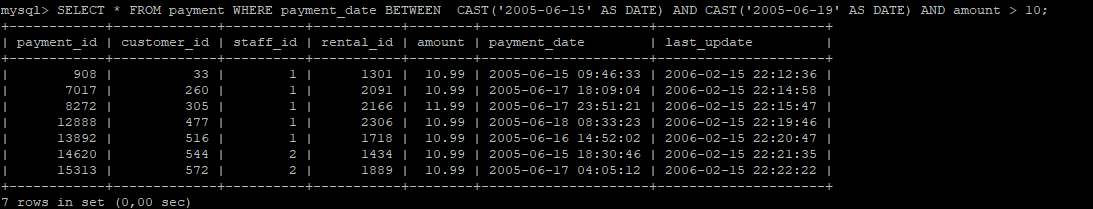
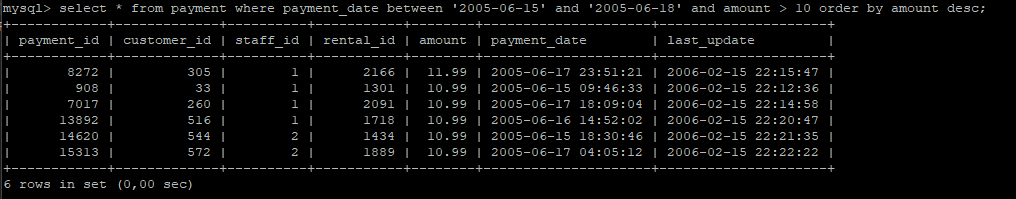
res

diff --git a/12.03-hw/README.md b/12.03-hw/README.md
@@ -22,7 +22,7 @@ select distinct district from address where district like 'K%a' and district not
 
 Получите из таблицы платежей за прокат фильмов информацию по платежам, которые выполнялись в промежуток с 15 июня 2005 года по 18 июня 2005 года **включительно** и стоимость которых превышает 10.00.  
 ```
-SELECT * FROM payment WHERE payment_date BETWEEN  CAST('2005-06-15' AS DATE) AND CAST('2005-06-19' AS DATE) AND amount > 10;  
+select * from payment where payment_date between '2005-06-15' and '2005-06-18' and amount > 10 order by amount desc;  
 ```  
 ![Скриншот-2](https://github.com/plusvaldis/sdb-hw/blob/main/12.03-hw/img/Screenshot_2.png)
 ---
